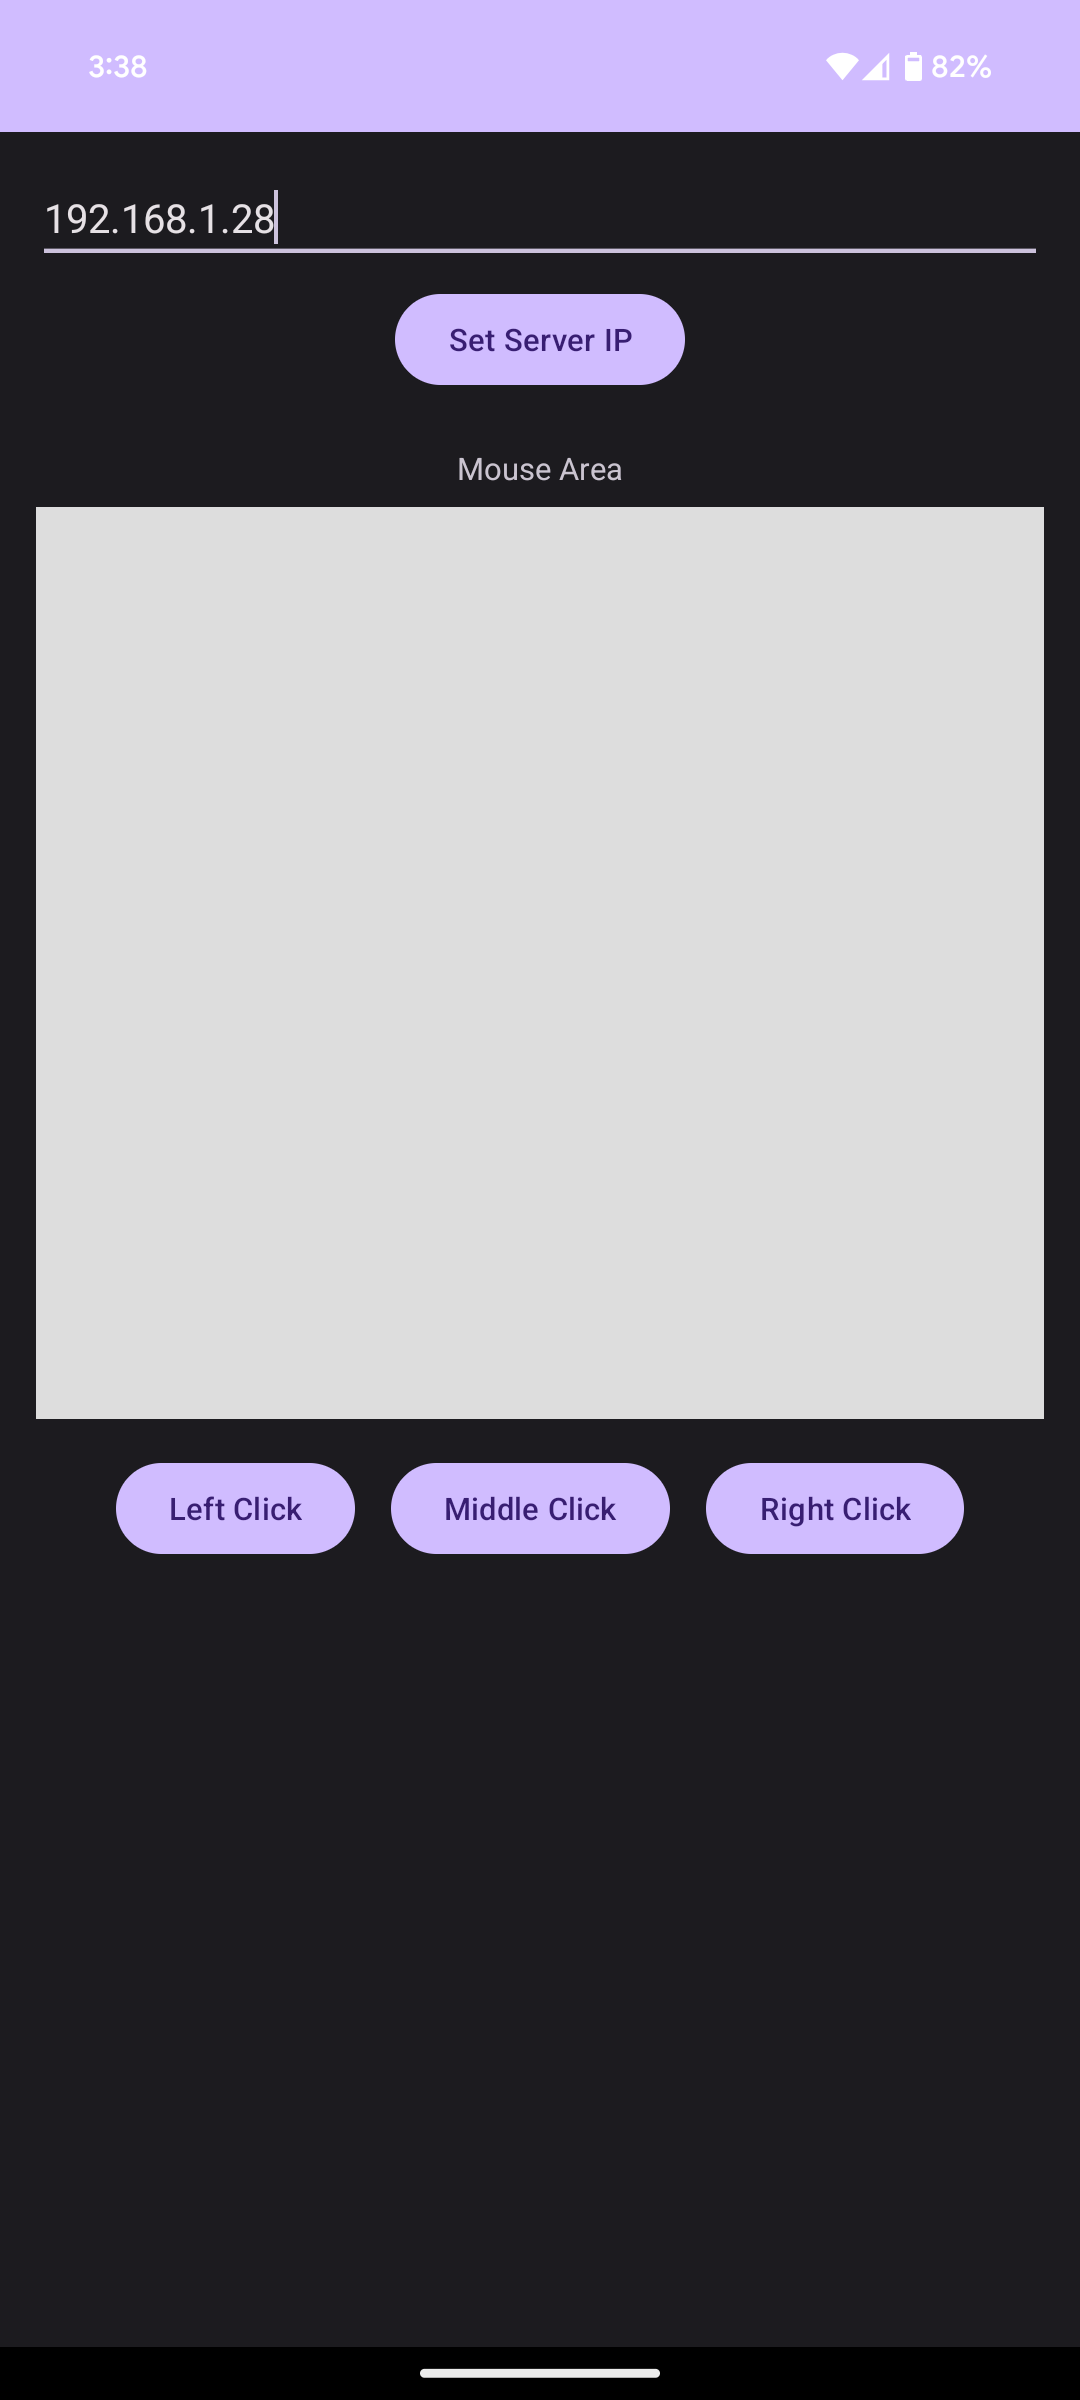
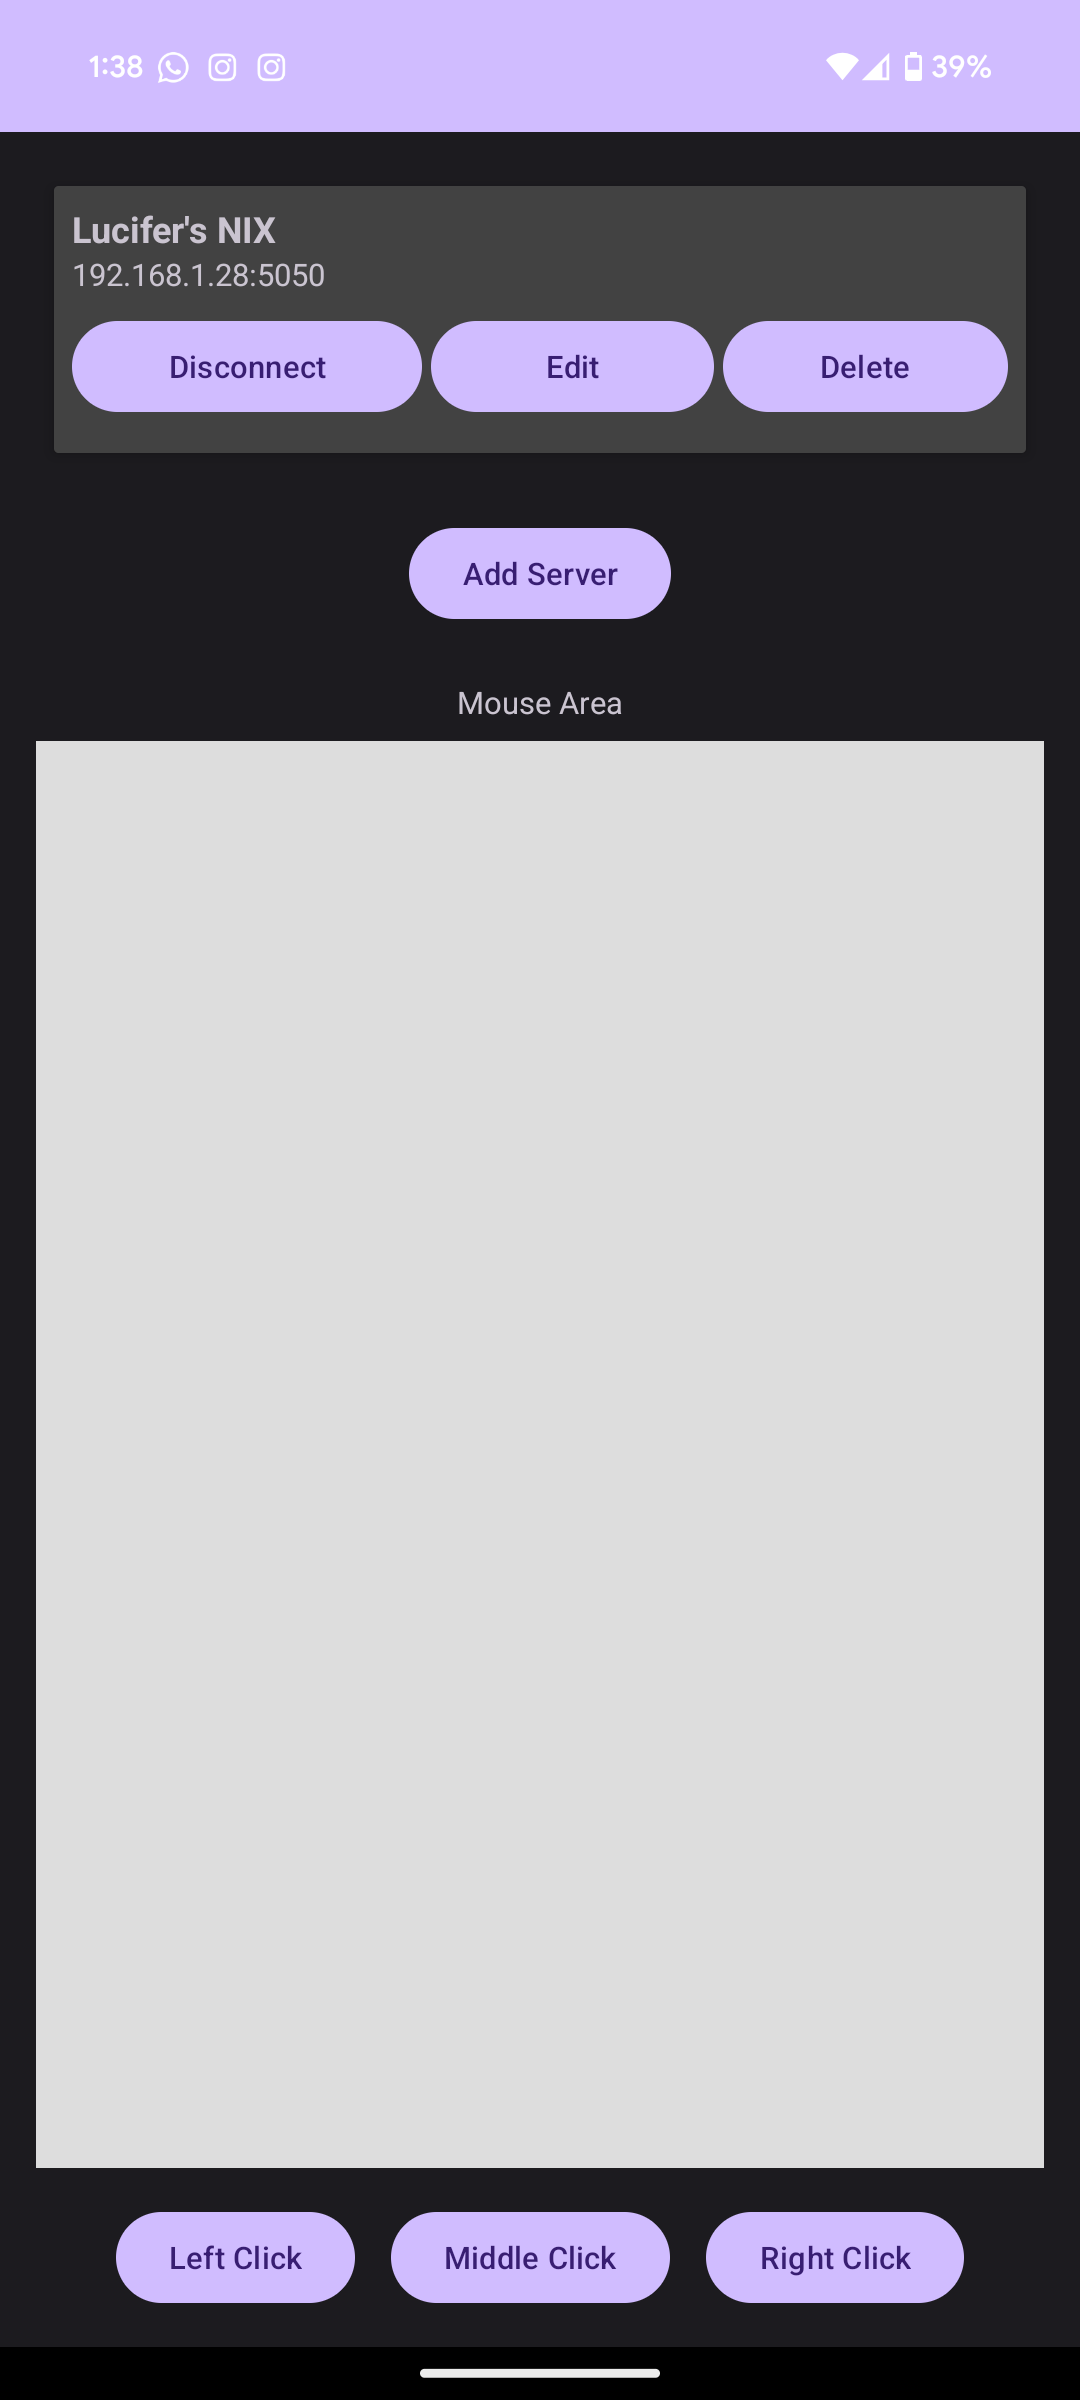
Updated ReadMe

diff --git a/README.md b/README.md
@@ -14,10 +14,10 @@ appropriate commands through python-uinput library.
 Currently the application only support linux environments and mouse controls only.
 
 ## TODOs
-+ Implement proper keyboard controls.
-+ Functionality to remember servers on frontend.
-+ Implementing an authentication mechanism.
-+ Adding TLS to secure the socket communication.
++ Functionality to remember servers on frontend.          Done ✅
++ Implement proper keyboard controls.                     Pending ⏳
++ Implementing an authentication mechanism.               Pending ⏳
++ Adding TLS to secure the socket communication.          Pending ⏳
 
 ## How To Install
 ### Prerequisities
@@ -39,6 +39,7 @@ Currently the application only support linux environments and mouse controls onl
 + Enjoy :)
 
 ## Functionality
++ Save your Server Details.
 + Use the Mouse Area to move the cursor arround.
 + You can use the buttons below to simulate button click events.
 + Also you can tap anywhere on the touchpad to send a left click event.
